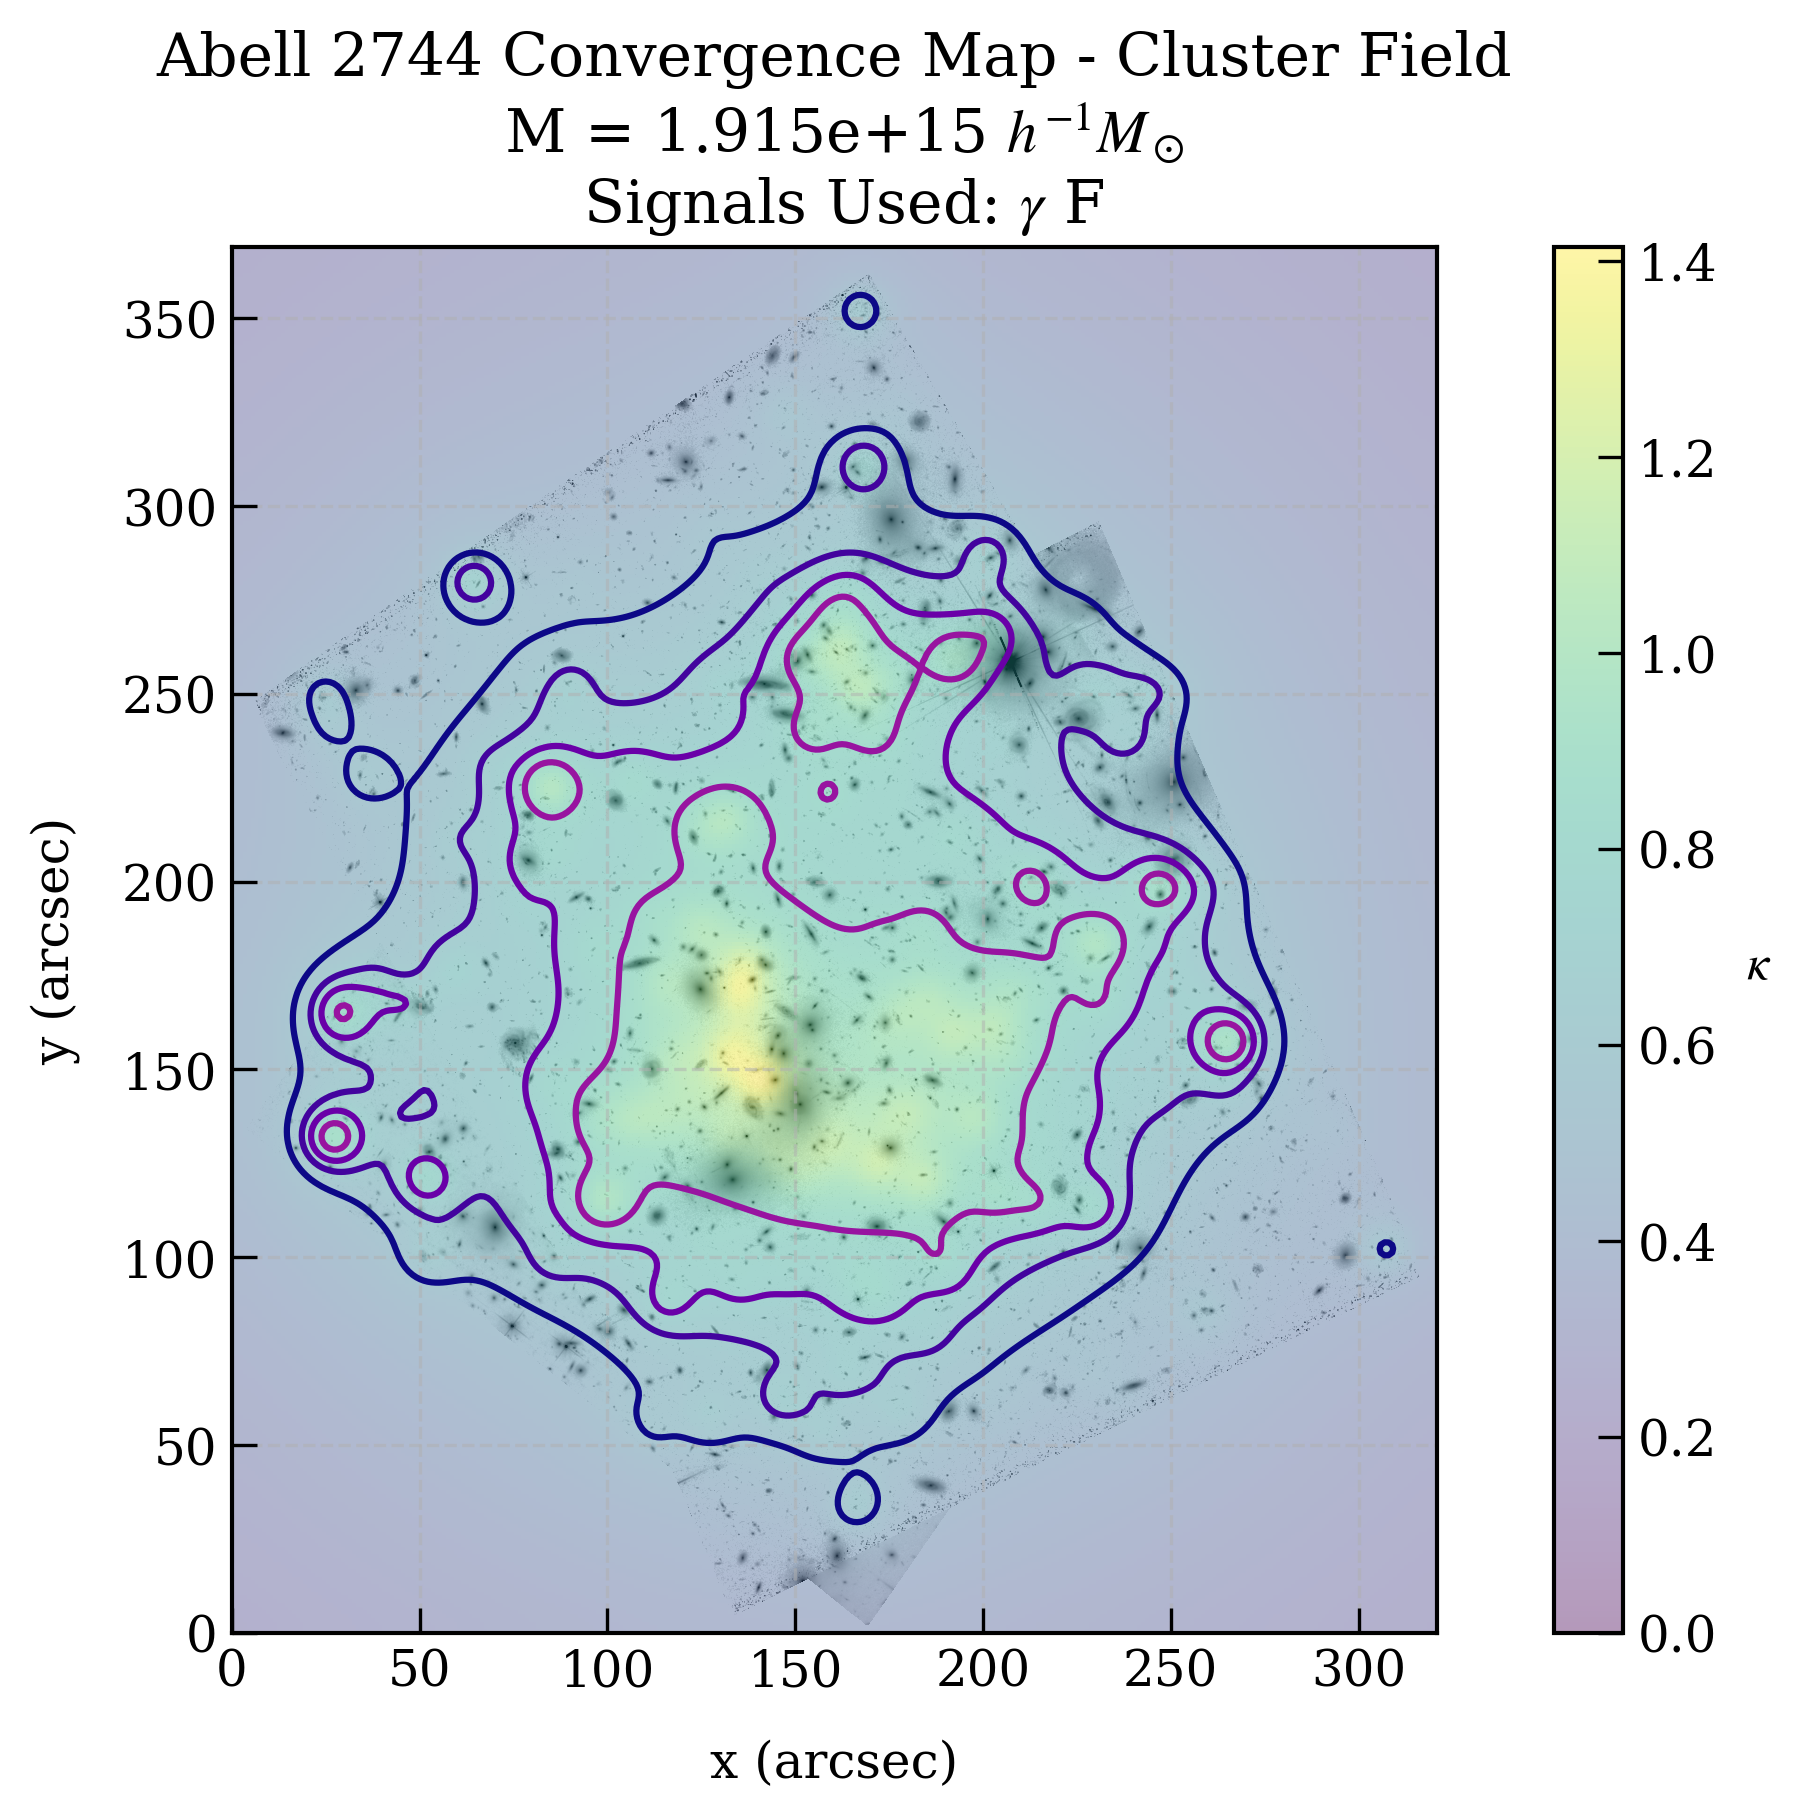
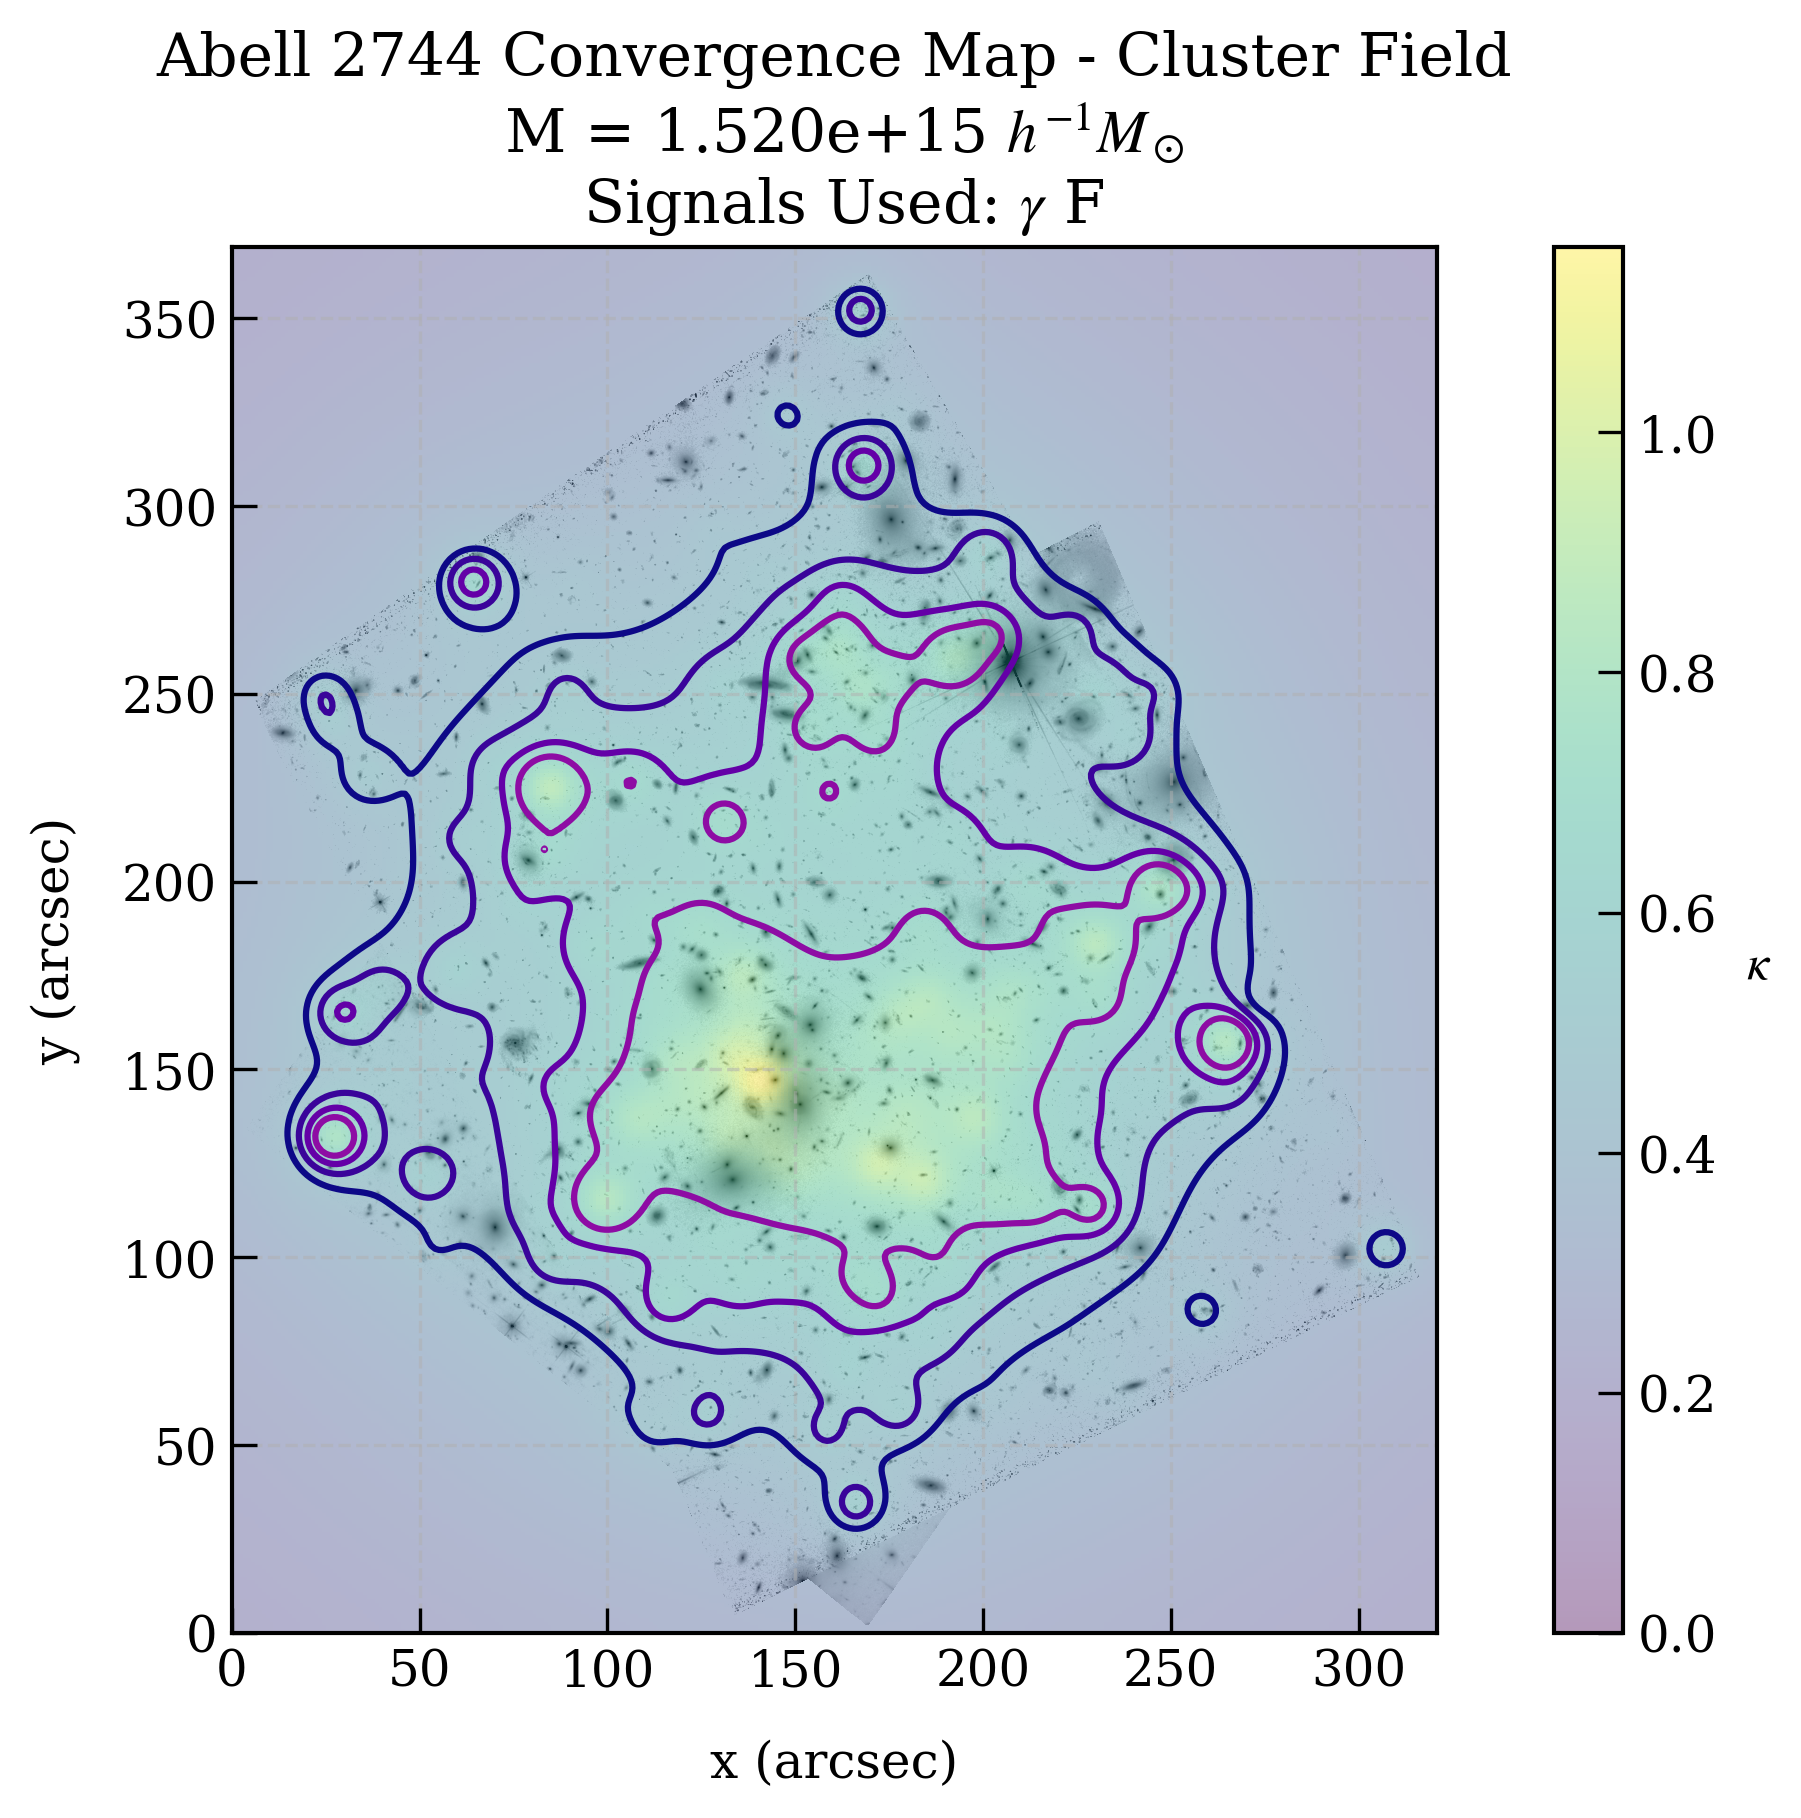
Run of A2744 with different signals, update to MDARK analysis code

diff --git a/mdark.py b/mdark.py
@@ -29,8 +29,6 @@ class Halo:
         omega_crit = 0.27
         omega_z = 0.27 * (1 + z)**3 / (0.27 * (1 + z)**3 + 0.73)
         R200 = (1.63 * 10**-2) * (self.mass / h**-1)**(1/3) * (omega_crit / omega_z)**(-1/3) * (1 + z)**(-1) * h**-1 # In Kpc
-        # Convert to arcseconds
-        # TBD - involves cosmology based on z
         return R200
     
     def build_lenses(self, z, R200):
@@ -47,7 +45,7 @@ class Halo:
 
         eR = ((2 * np.pi * G) / (c**2) * (D_ls / D_s) * (mass / R200)).value * 206265 # Convert to arcseconds
 
-        return pipeline.Lens(self.x, self.y, eR, np.zeros_like(self.x))
+        return pipeline.Lens(np.array(self.x), np.array(self.y), np.array(eR), np.zeros_like(self.x))
 
 
 def fix_file(z):
@@ -137,15 +135,19 @@ def count_clusters(z):
 
     count1 = 0
     count2 = 0
+    count3 = 0
 
     for chunk in chunks:
-        # Count each cluster with mass > 10^14 M_sun
-        count1 += np.sum(chunk[' Total Mass'].values > 1e14)
-        # Count each cluster of mass > 10^14 M_sun and more than 1 halo
-        count2 += np.sum((chunk[' Total Mass'].values > 1e14) & (chunk[' Halo Number'].values > 1))
+        # Count each cluster with mass > 10^13 M_sun
+        count1 += np.sum(chunk[' Total Mass'].values > 1e13)
+        # Count each cluster of mass > 10^14 M_sun 
+        count2 += np.sum((chunk[' Total Mass'].values > 1e14))
+        # Count each cluster of mass > 10^15 M_sun 
+        count2 += np.sum((chunk[' Total Mass'].values > 1e15))
 
-    print('Number of clusters with mass > 10^14 M_sun: {}'.format(count1))
-    print('Number of clusters with mass > 10^14 M_sun and more than 1 halo: {}'.format(count2))
+    print('Number of clusters with mass > 10^13 M_sun: {}'.format(count1))
+    print('Number of clusters with mass > 10^14 M_sun: {}'.format(count2))
+    print('Number of clusters with mass > 10^15 M_sun: {}'.format(count3))
 
 
 def find_halos(ID, z):
@@ -197,9 +199,9 @@ def choose_ID(z, mass_range, min_halos):
     return IDs
     
     # Now we have the correct objects, we can return the relevant information
-    
 
-def run_analysis(halos):
+
+def run_analysis(halos, z):
     '''
     Given a set of halos, run the analysis
     This involves the following steps
@@ -219,11 +221,49 @@ def run_analysis(halos):
     6. Generate a confusion matrix
     7. Save the results to a file
     '''
-    pass
+
+    # Convert coordinates to arcseconds
+    # Currently, coordinates are in Mpc
+    # We need to convert to arcseconds
+    d = cosmo.angular_diameter_distance(z).to(u.meter)
+    # Convert to meters
+    x = halos.x * 3.086 * 10**22
+    y = halos.y * 3.086 * 10**22
+    # Convert to arcseconds
+    x = (x / d).value * 206265
+    y = (y / d).value * 206265
+
+    halos.x = x
+    halos.y = y
+
+    lenses = halos.build_lenses(z, halos.calc_R200(z))
+    print(len(lenses.x))
+    print(np.mean(lenses.x))
+    print(np.std(lenses.x))
+
+    # Center the lenses at (0, 0)
+    # This is a necessary step for the pipeline
+    # to work correctly
+    centroid = np.mean(lenses.x), np.mean(lenses.y)
+    lenses.x -= np.mean(lenses.x)
+    lenses.y -= np.mean(lenses.y)
+
+    xmax = np.max([np.max(lenses.x), np.max(lenses.y)])
+    # Set the maximum extent of the field of view
+    # to be the maximum extent of the lenses
+
+    # Generate a set of background galaxies
+    ns = 0.01
+    Nsource = int(ns * (xmax*2)**2)
+    sources = utils.createSources(lenses, Nsource, randompos=True, sigs=0.1, sigf=0.01, sigg=0.02, xmax=xmax)
+
+    candidate_lenses, _ = pipeline.fit_lensing_field(sources, xmax, [True, True, True])
+
+    return candidate_lenses
 
 
-def run_bulk_analysis():
-    # Get a set of cluster IDs and run the analysis on each. 
+def build_test_set(Nhalos):
+
     pass
 
 
@@ -235,9 +275,16 @@ def plot_results():
 if __name__ == '__main__':
     zs = [0.194, 0.221, 0.248, 0.276]
 
-    start = time.time()
-    ID = choose_ID(0.194, [1e14, 1e15], 1)
+    ID = choose_ID(0.194, (1e13, 1e14), 2)
     halos = find_halos(ID, 0.194)
+    lenses = run_analysis(halos, 0.194)
+    plt.figure()
+    plt.scatter(lenses.x, lenses.y, c = lenses.te, cmap='plasma', s = lenses.te * 100, alpha=0.5)
+    plt.colorbar()
+    plt.show()
+
+    raise SystemExit
+
     R200 = halos.calc_R200(0.194)
     lenses = halos.build_lenses(0.194, R200)
     print(lenses.x, lenses.y, lenses.te)

diff --git a/utils.py b/utils.py
@@ -58,82 +58,6 @@ def stn_shear(eR, n, sigma, rmin, rmax):
     return term1 * term2
 
 
-def lens(sources,lenses):
-    e1 = np.zeros(len(sources.x))
-    e2 = np.zeros(len(sources.x))
-    f1 = np.zeros(len(sources.x))
-    f2 = np.zeros(len(sources.x))
-
-    for i in range(len(lenses.x)):
-        dx = sources.x - lenses.x[i]
-        dy = sources.y - lenses.y[i]
-        r = np.sqrt(dx**2 + dy**2)
-
-        cosphi = dx/r
-        sinphi = dy/r
-        cos2phi = cosphi*cosphi-sinphi*sinphi
-        sin2phi = 2*cosphi*sinphi
-    
-        e1 += -lenses.te[i]/(2*r)*cos2phi
-        e2 += -lenses.te[i]/(2*r)*sin2phi
-        f1 += -dx*lenses.te[i]/(2*r*r*r)
-        f2 += -dy*lenses.te[i]/(2*r*r*r)
-
-    return e1,e2,f1,f2
-
-
-def eR_penalty_function(eR, lower_limit=0.0, upper_limit=20.0, lambda_penalty_upper=10.0):
-    # Hard lower limit
-    if eR < lower_limit:
-        return 1e8 #Use an arbitrarily large number - NOT infinity (will yield NaNs)
-
-    # Soft upper limit
-    if eR > upper_limit:
-        return lambda_penalty_upper * (eR - upper_limit) ** 2
-
-    return 0.0
-
-
-def compute_chi2(sources, lenses, sigf, sigs, fwgt=1.0, swgt=1.0):
-    # Extract the data from the sources
-    x, y, e1data, e2data, f1data, f2data = sources.x, sources.y, sources.e1, sources.e2, sources.f1, sources.f2
-    # Initialize chi^2 value
-    chi2val = 0.0
-
-    # Loop through the data points to compute the chi^2 terms
-    # What if we only get one data point?
-    # Turn it into an array of length 1
-    if not isinstance(x, np.ndarray):
-        x = np.array([x])
-        y = np.array([y])
-        e1data = np.array([e1data])
-        e2data = np.array([e2data])
-        f1data = np.array([f1data])
-        f2data = np.array([f2data])
-
-    e1, e2, f1, f2 = lens(sources, lenses)
-
-    for i in range(len(x)):
-        chie1 = (e1data[i] - e1[i]) ** 2 / (sigs ** 2)
-        chie2 = (e2data[i] - e2[i]) ** 2 / (sigs ** 2)
-        chif1 = (f1data[i] - f1[i]) ** 2 / (sigf ** 2)
-        chif2 = (f2data[i] - f2[i]) ** 2 / (sigf ** 2)
-
-        chi2val += fwgt * (chif1 + chif2) + swgt * (chie1 + chie2)
-    
-    # Add the penalty term for Einstein radii outside the threshold
-    total_penalty = 0.0
-    try:
-        for eR in lenses.te:
-            total_penalty += eR_penalty_function(eR)
-    except TypeError: # If lenses.te is not an array
-        total_penalty += eR_penalty_function(lenses.te)
-
-    chi2val += total_penalty
-    
-    return chi2val
-
-
 def calculate_kappa(lenses, extent, smoothing_scale) -> tuple:
     '''
     Calculates the convergence map for a given set of lenses.

diff --git a/data_handler.py b/data_handler.py
@@ -248,6 +248,8 @@ def reconstruct_a2744(field='cluster', randomize=False, full_reconstruction=Fals
         title += r'$\gamma$' if use_flags[0] else ''    
         title += ' F' if use_flags[1] else ''
         title += ' G' if use_flags[2] else ''
+    else:
+        title += '\n All Signals Used'
 
     # Plot the convergence map
     fig, ax = plt.subplots()
@@ -265,7 +267,7 @@ def reconstruct_a2744(field='cluster', randomize=False, full_reconstruction=Fals
                 break
         file_name += f'_{i}'
     plt.savefig(dir + file_name + '.png')
-    plt.show()
+    plt.close()
 
 
 def plot_er_dist(merge_radius=1):
@@ -308,5 +310,8 @@ if __name__ == '__main__':
     shear_flex = [True, True, False] # Use shear and flexion
     all_flex = [False, True, True] # Use flexion and g-flexion
     global_signals = [True, False, True] # Use shear and g-flexion (global signals)
-
-    reconstruct_a2744(field='cluster', randomize=False, full_reconstruction=True, use_flags=shear_flex)
+    signal_choices = [use_all_signals, shear_flex, all_flex, global_signals]
+        
+    for field in ['cluster', 'parallel']:
+        for use_flags in signal_choices:
+            reconstruct_a2744(field=field, randomize=False, full_reconstruction=True, use_flags=use_flags)

diff --git a/pipeline.py b/pipeline.py
@@ -341,7 +341,7 @@ def fit_lensing_field(sources, xmax, flags = False, use_flags = [True, True, Tru
 
     # Merge lenses that are too close to each other
     ns = len(sources.x) / (2 * xmax)**2
-    merger_threshold = (1 / np.sqrt(ns))
+    merger_threshold = (1 / np.sqrt(ns)) * 0.5
     # If the merger threshold is too small, set it to 1
     if merger_threshold < 1:
         merger_threshold = 1
